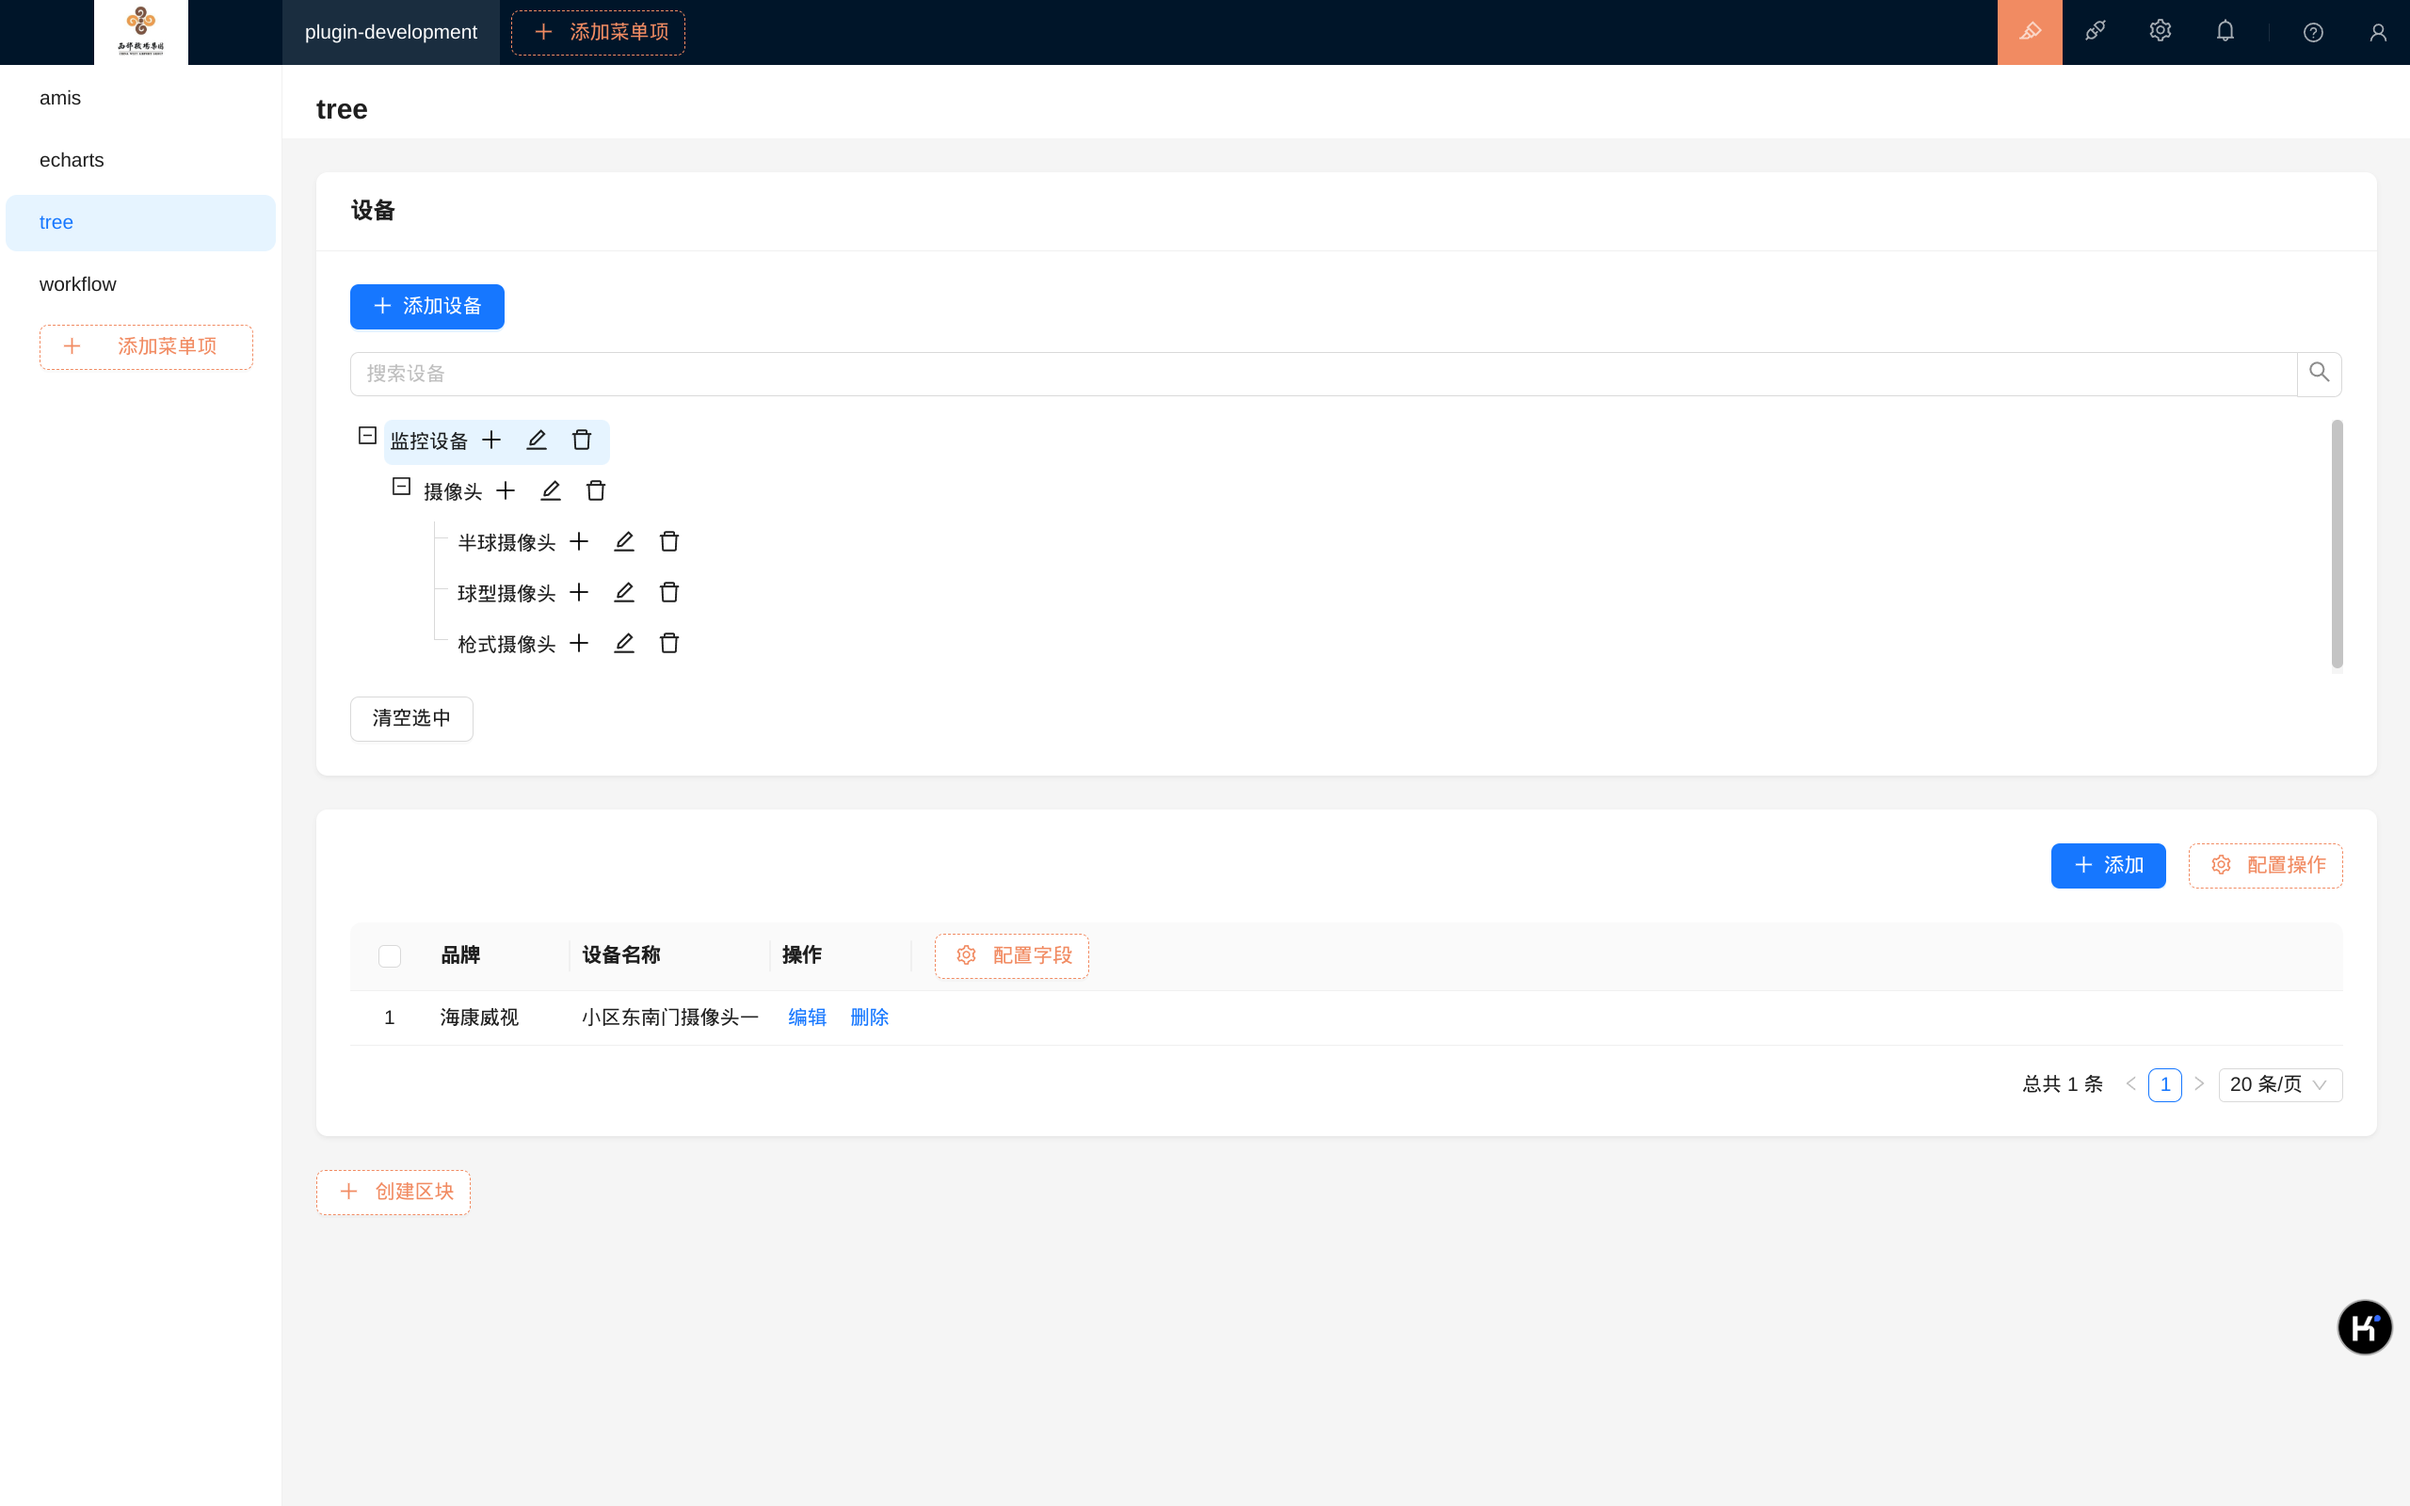
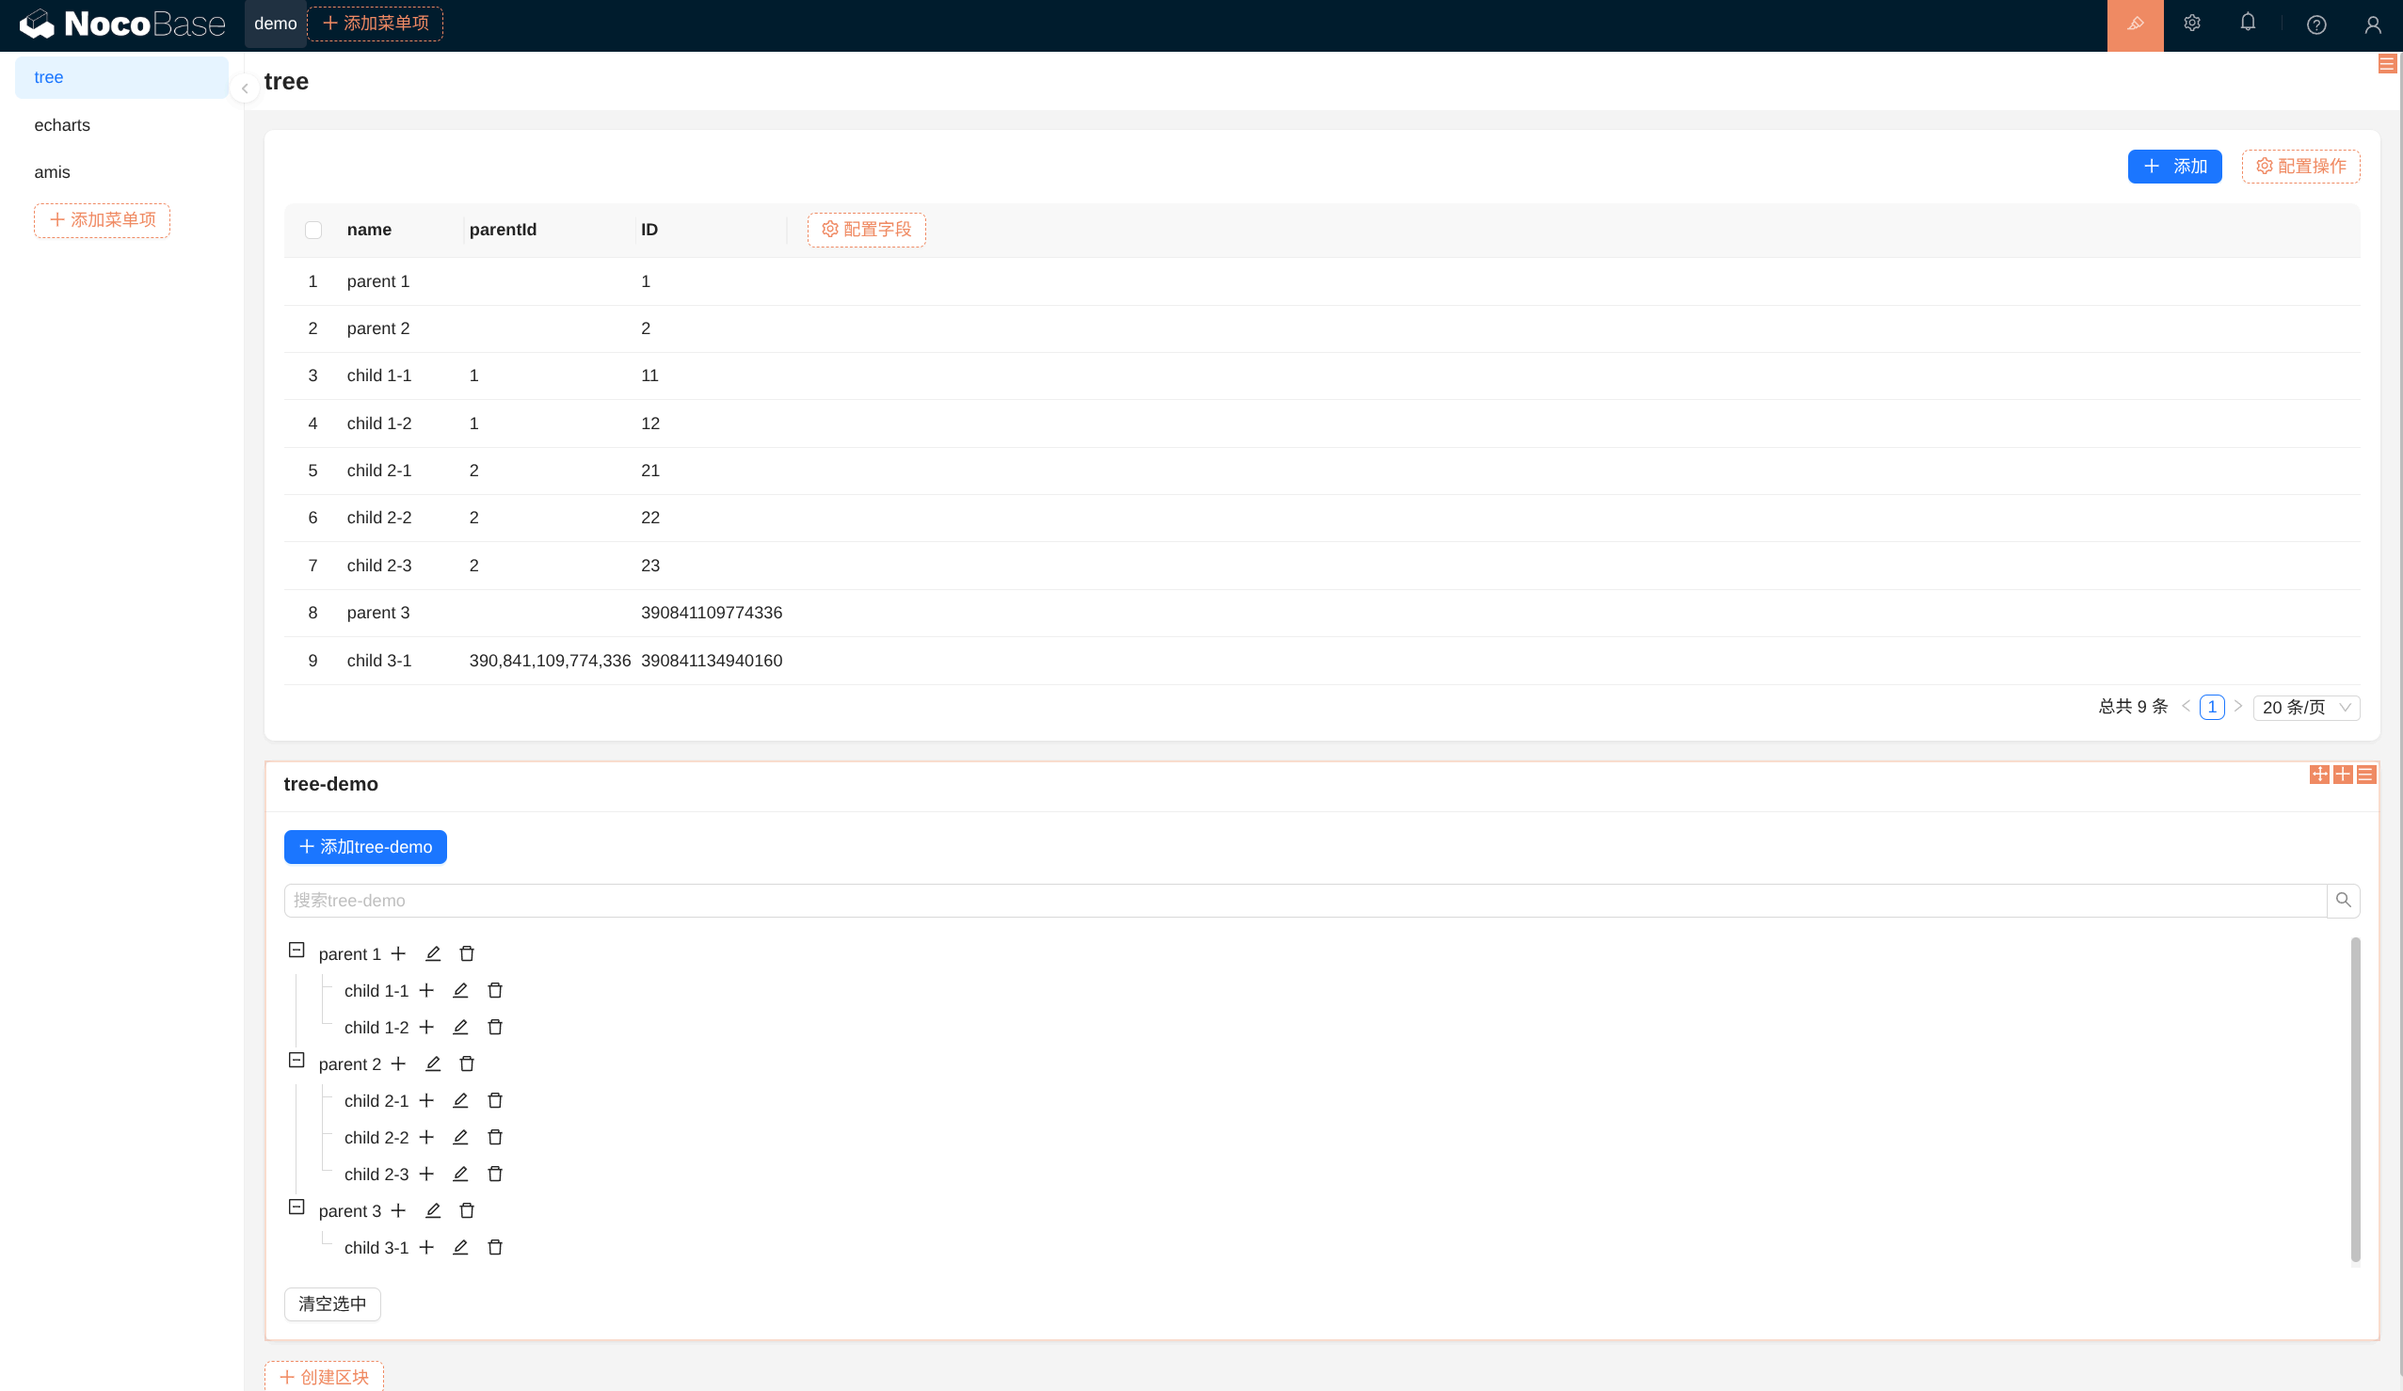
fix: 修复多处文件损坏并应用 URT 项目内容更新
- 修复 ProjectList.vue / VerticalNavGroup.vue 结构损坏，
  恢复无截图占位块（按项目哈希取色 + 大号自适应首字）
- 恢复 details.json 损坏内容（urt 条目丢失、幸福林带丢失、顺序错乱），
  并应用 URT 项目润色（安全管理、提取脚本测试）
- 恢复 personal.vue 产品板块、主/子标签栏吸顶、路由跳转回顶部
- 移除 VerticalNavLayout.vue 调试日志
- companies.json 移除 9 个通用占位图
- 修正 nocobase 图片名 echars -> echarts，并补充 amis / tree 截图

diff --git a/src/components/ProjectList.vue b/src/components/ProjectList.vue
@@ -1,5 +1,7 @@
 <script setup>
 // 项目卡片网格：由数据驱动渲染，内容统一来自 @/data/companies.js（企业-项目目录配置）
+import { computed } from 'vue'
+import { useTheme } from 'vuetify'
 import { parseEmphasis } from '@/utils/emphasis'
 
 defineProps({
@@ -8,6 +10,50 @@ defineProps({
     required: true,
   },
 })
+
+const theme = useTheme()
+const isDark = computed(() => theme.global.current.value.dark)
+
+// 👉 无截图项目的占位配色：按 slug 哈希从柔和色板中取色。
+// 用 RGB 三元组（而非 hex）是为了能用 rgba() 控制浓度；
+// 刻意避开 error/warning 等语义色，避免占位块被误读成“出错 / 警告”。
+const placeholderPalette = [
+  '140, 87, 255',  // 紫（品牌主色 #8C57FF）
+  '77, 138, 255',  // 蓝
+  '0, 184, 217',   // 青
+  '86, 202, 0',    // 绿
+  '255, 159, 67',  // 琥珀
+  '255, 107, 157', // 玫红
+]
+
+// 稳定哈希：同一项目每次渲染都取到同一颜色（不能用 Math.random，否则刷新就变）
+const hashString = str => {
+  let h = 0
+
+  for (let i = 0; i < str.length; i++)
+    h = (h * 31 + str.charCodeAt(i)) >>> 0
+
+  return h
+}
+
+const placeholderStyle = prj => {
+  const rgb = placeholderPalette[hashString(prj.slug ?? prj.name ?? '') % placeholderPalette.length]
+
+  return {
+    '--ph-rgb': rgb,
+
+    // 深底上需要更高不透明度才看得见
+    '--ph-alpha': isDark.value ? 0.14 : 0.07,
+  }
+}
+
+// 首字：优先取第一个拉丁字母（Aethera → A、URT → U），没有则取第一个字符（产运销 → 产）
+const placeholderInitial = prj => {
+  const name = (prj.name ?? '').trim()
+  const latin = name.match(/[A-Za-z]/)
+
+  return (latin ? latin[0] : name.charAt(0)).toUpperCase()
+}
 </script>
 
 <template>
@@ -31,11 +77,25 @@ defineProps({
           >
             <div class="project-media">
               <VImg
+                v-if="prj.image"
                 :src="prj.image"
                 class="projects_image"
                 aspect-ratio="1.7778"
                 cover
               />
+
+              <!-- 👉 无可用截图的项目：彩色占位块，避免出现空白或破图 -->
+              <div
+                v-else
+                class="project-no-image"
+                :style="placeholderStyle(prj)"
+              >
+                <!-- 大号首字 + 淡色底已足够表达占位含义，无需额外说明文字 -->
+                <div class="pni-initial">
+                  {{ placeholderInitial(prj) }}
+                </div>
+              </div>
+
               <div
                 class="project-media__overlay"
                 :class="{ 'is-visible': isHovering }"
@@ -113,8 +173,32 @@ defineProps({
   position: relative;
   overflow: hidden;
 
+  // 设为尺寸容器，使占位字号可用 cqi 随「卡片宽度」自适应
+  // （卡片在不同断点下是 12/6/4 栏，宽度差别很大，写死 px/rem 会不协调）
+  container-type: inline-size;
+
   .projects_image {
     transition: transform 0.45s ease;
+  }
+
+  // 👉 无截图占位：与图片保持同一 16:9 比例，保证卡片高度一致。
+  // 浓度刻意压得很低（--ph-alpha），避免占位块比真实截图更抢眼。
+  .project-no-image {
+    display: flex;
+    flex-direction: column;
+    align-items: center;
+    justify-content: center;
+    inline-size: 100%;
+    aspect-ratio: 1.7778;
+    background-color: rgba(var(--ph-rgb), var(--ph-alpha));
+    color: rgba(var(--ph-rgb), 0.9);
+
+    // 字号随卡片宽度自适应：18cqi = 卡片宽度的 18%；clamp 兜住极端宽度。
+    .pni-initial {
+      font-size: clamp(2.5rem, 18cqi, 6rem);
+      font-weight: 700;
+      line-height: 1;
+    }
   }
 
   &__overlay {

diff --git a/public/games/dinosaur/index.html b/public/games/dinosaur/index.html
@@ -97,39 +97,6 @@
         document.getElementById('file-protocol-warning').style.display = 'block';
       }
     </script>
-
-    <!-- 👉 玩法说明 -->
-    <div id="game-tip">点击画面 → 小恐龙走到你点击的地方</div>
-    <style>
-      #game-tip {
-        position: fixed;
-        left: 50%;
-        bottom: 28px;
-        transform: translateX(-50%);
-        z-index: 9998;
-        padding: 10px 20px;
-        border-radius: 999px;
-        background: rgba(0, 0, 0, 0.55);
-        color: #fff;
-        font-size: 15px;
-        font-family: sans-serif;
-        line-height: 1.4;
-        white-space: nowrap;
-        pointer-events: none; /* 关键：不拦截点击，否则恐龙不会走 */
-        transition: opacity 600ms ease;
-      }
-      #game-tip.hide { opacity: 0; }
-    </style>
-    <script>
-      (function () {
-        var tip = document.getElementById('game-tip');
-        if (!tip) return;
-        var hide = function () { tip.classList.add('hide'); };
-        // 玩家开始点击后淡出；加载较慢时最长保留 15 秒
-        document.addEventListener('click', hide, { once: true });
-        setTimeout(hide, 15000);
-      })();
-    </script>
 </body>
 <!-- libraries -->
 <script src="js/laya/matter.js"></script>

diff --git a/src/utils/years.js b/src/utils/years.js
@@ -1,12 +1,8 @@
-// 👉 全局年份配置：基准参数写在 personal.json（chinaSince / career.since / career.gap）
-// 改 personal.json 即可全站同步，无需改代码。
-// 工龄表达式：今年 - 职业起始年 - 不做职业的年数（空档）
-import { personal } from '@/data/personal'
+// 👉 全局年份配置：只需改这里，所有页面的年数自动同步
+// 来华 / 定居西安的年份（用于 {years}）
+export const CHINA_SINCE = 2014
+// 软件工程职业生涯起始年份（用于 {exp}，与“22 年经验”一致）
+export const CAREER_SINCE = 2004
 
-export const getYears = () =>
-  new Date().getFullYear() - (personal.chinaSince ?? 2014)
-
-export const getExpYears = () =>
-  new Date().getFullYear() -
-  (personal.career?.since ?? 2002) -
-  (personal.career?.gap ?? 0)
+export const getYears = () => new Date().getFullYear() - CHINA_SINCE
+export const getExpYears = () => new Date().getFullYear() - CAREER_SINCE

diff --git a/src/@layouts/components/VerticalNavLayout.vue b/src/@layouts/components/VerticalNavLayout.vue
@@ -11,9 +11,7 @@ export default defineComponent({
     const { mdAndDown } = useDisplay()
 
     onMounted(() => {
-      console.log('mounted')
-      window.addEventListener('scroll', (e) => {
-        console.log(document.documentElement.scrollTop)
+      window.addEventListener('scroll', () => {
         if (document.documentElement.scrollTop > 20) {
           document.querySelector('.layout-wrapper').classList.add('window-scrolled')
         } else {
